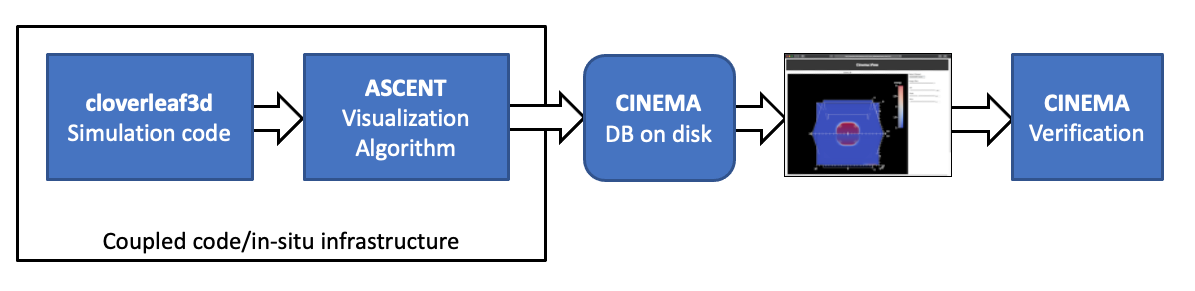
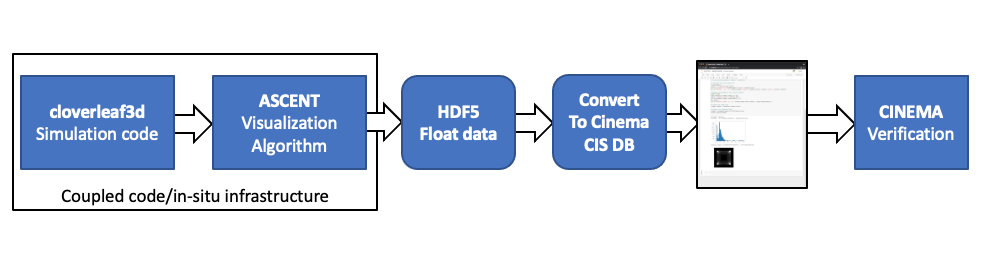
updating documentation

diff --git a/readme.md b/readme.md
@@ -1,14 +1,14 @@
 ![release](https://pantheonscience.github.io/states/release.png)
 
-# Pantheon/E4S/Ascent in-situ miniapp example workflow
+# Cinema Composable Image Set (CIS) output example 
 
 <p align="center">
 <img width="750" src="doc/img/diagram.png"/>
 </p>
 <p align="center">Diagram of workflow in this example.</p>
 
-A repository for examples using `Ascent`, in-situ creation of `Cinema`
-databases, and post-processing analysis. 
+A repository for examples using `Ascent`, in-situ creation of float data, converted to `Cinema CIS`
+databases, and verification. 
 
 Build instructions embedded in this workflow are derived from the Ascent build instructions [here](https://ascent.readthedocs.io/en/latest/BuildingAscent.html). This workflow uses **spack** to build all executables, from a specific commit.
 
@@ -19,9 +19,9 @@ to speed up the build/install of requisite applications. If no cached builds are
 <p align="center">
 <table>
 <tr>
-<td><img width="200" src="validate/data/cloverleaf3d_001.cdb/0.0/0.0_0.0_pantheon.cdb.png"</td>
-<td><img width="200" src="validate/data/cloverleaf3d_001.cdb/2.0/0.0_0.0_pantheon.cdb.png"</td>
-<td><img width="200" src="validate/data/cloverleaf3d_001.cdb/5.0/0.0_0.0_pantheon.cdb.png"</td>
+<td><img width="200" src="doc/img/010.png"></td>
+<td><img width="200" src="doc/img/100.png"></td>
+<td><img width="200" src="doc/img/200.png"></td>
 </tr>
 </table>
 </p>
@@ -32,8 +32,9 @@ The workflow does the following:
 - Creates a [Pantheon](http://pantheonscience.org/) environment and build location
 - Clones a specific commit of [Spack](https://github.com/spack/spack)
 - Uses `spack` to build [Ascent](https://ascent.readthedocs.io/en/latest/) and set up a coupled app/in-situ workflow
-- Runs the workflow to produce a [Cinema](https://cinemascience.org) database
-- Adds a `Cinema` viewer, and packages up the results.
+- Runs the workflow to produce float images 
+- Converts the output to a [Cinema CIS](https://cinemascience.org) database
+- Adds a `Cinema` viewer and a jupyter notebook viewer, and packages up the results.
 - Verifies the `Cinema` database
 
 ## Using this repository
